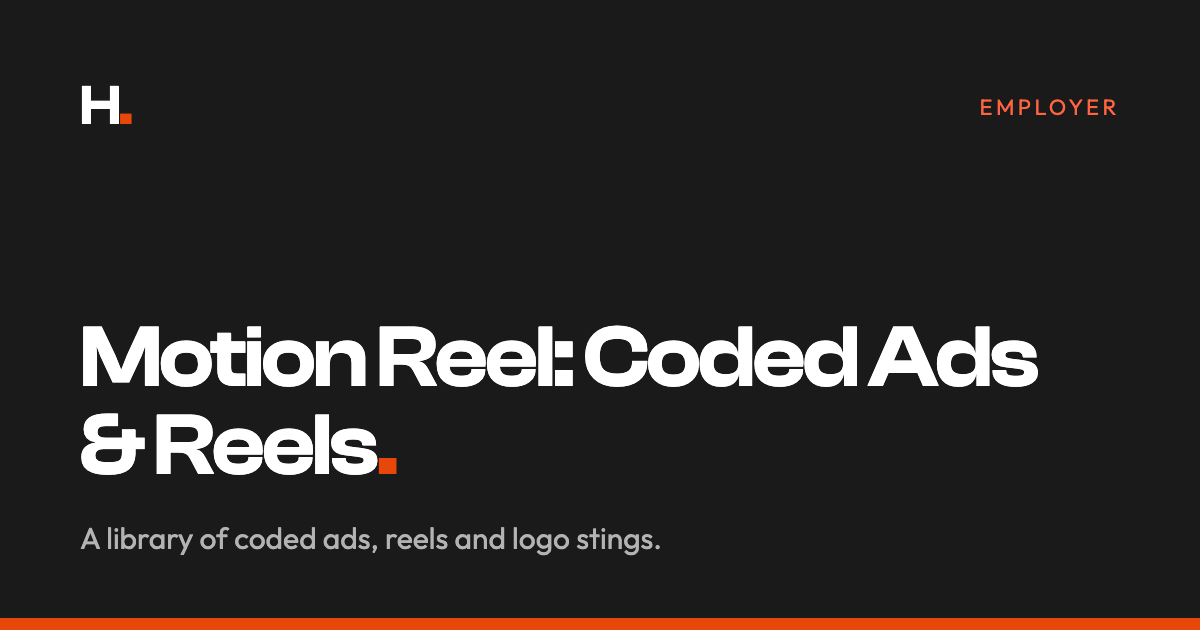
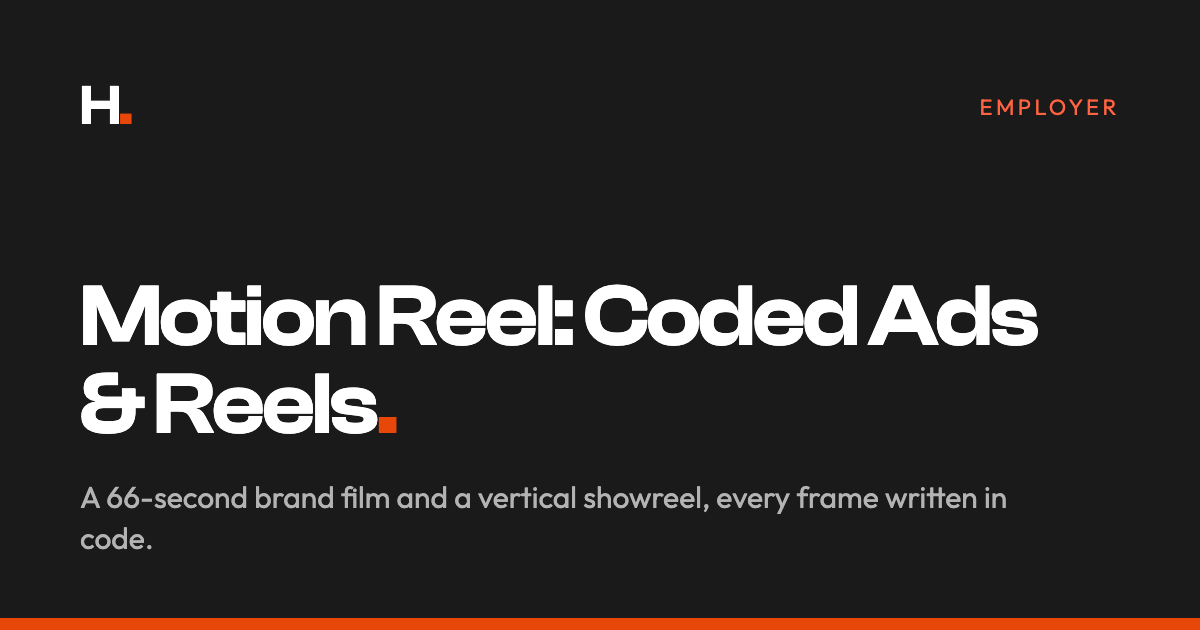
Restore Zara redesign and Mini Minds as personal projects
Both case studies from the original site return under a new Personal
projects section on the Work page, with self-hosted images, cleaned copy
(vague stats dropped), the Zara Figma prototype link, OG images and a
Personal projects gallery group. Their original URLs serve the pages
again instead of redirecting to /work.

Changed region(s): [[0.0617, 0.4524, 0.8633, 0.8143], [0.0617, 0.8444, 0.555, 0.8746]]

diff --git a/src/data/projects.ts b/src/data/projects.ts
@@ -7,7 +7,7 @@
  * skipped on case study pages. Covers without real media use generated art (scripts/make-covers.mjs).
  */
 
-export type ProjectType = 'product' | 'employer' | 'freelance' | 'coursework'
+export type ProjectType = 'product' | 'employer' | 'freelance' | 'coursework' | 'personal'
 export type ProjectStatus = 'shipped' | 'in-progress'
 export type Discipline = 'product' | 'web' | 'motion' | 'marketing'
 
@@ -68,6 +68,8 @@ export interface Project {
   sections: Section[]
   confidential: boolean
   liveUrl?: string
+  /** Figma or other prototype link, shown as a secondary button on the case study. */
+  prototypeUrl?: string
   /** Studies label shown on coursework cards. */
   studyLabel?: 'KPU coursework' | 'KPU capstone'
 }
@@ -77,6 +79,7 @@ export const typeLabel: Record<ProjectType, string> = {
   employer: 'Employer',
   freelance: 'Freelance',
   coursework: 'Coursework',
+  personal: 'Personal project',
 }
 
 export const disciplineLabel: Record<Discipline, string> = {
@@ -644,6 +647,131 @@ export const projects: Project[] = [
     ],
   },
 
+  /* Personal projects --------------------------------------------------- */
+  {
+    slug: 'zara-redesign',
+    title: 'Zara Website Redesign',
+    summary: 'A redesign of the Zara web experience focused on accessibility, intuitive navigation and a refined visual hierarchy.',
+    outcome: 'Responsive redesign with a Figma prototype for desktop, tablet and mobile.',
+    type: 'personal',
+    status: 'shipped',
+    role: 'UI/UX Designer',
+    timeline: '2025',
+    client: 'Personal project (unsolicited redesign)',
+    tools: ['Figma', 'Adobe Illustrator', 'Adobe Photoshop', 'AI tools'],
+    tags: ['Web redesign', 'Accessibility', 'Figma'],
+    disciplines: ['product', 'web'],
+    featured: false,
+    order: 201,
+    cover: { src: '/media/zara/cover', alt: 'Mid-fidelity wireframes of the redesigned Zara homepage, category, search and product pages on laptop and tablet' },
+    ogImage: og('zara-redesign'),
+    confidential: false,
+    prototypeUrl: 'https://www.figma.com/proto/v92INsi3vQ46o8rxwS5drA/Zara-website-redesign?content-scaling=fixed&kind=proto&node-id=20-4&scaling=scale-down&starting-point-node-id=20%3A4',
+    sections: [
+      {
+        id: 'problem',
+        title: 'The problem',
+        body: [
+          'Users struggled with Zara’s complex navigation and an inconsistent experience across devices. The site also had accessibility hurdles, such as poor keyboard support and low contrast.',
+        ],
+      },
+      {
+        id: 'role',
+        title: 'My role and constraints',
+        body: ['I led the end-to-end redesign, applying UX laws like Hick’s and Fitts’s to simplify the interface while keeping the brand’s premium feel.'],
+      },
+      {
+        id: 'process',
+        title: 'Process',
+        body: [
+          'Analysis of the existing site revealed the friction points: overwhelming choices and a lack of clear visual organization. Accessibility audits found contrast and navigation gaps.',
+          'From Miller’s Law for chunking information to Gestalt principles for visual hierarchy, each design decision aimed to reduce cognitive load and improve the shopping journey.',
+        ],
+        media: [
+          { src: '/media/zara/discovery', alt: 'Key findings: usability issues and accessibility challenges on the existing Zara site', caption: 'Key findings from the usability and accessibility review.' },
+          { src: '/media/zara/process', alt: 'Mid-fidelity mobile wireframes for the homepage, category, search and product pages', caption: 'Mid-fidelity mobile wireframes.' },
+        ],
+      },
+      {
+        id: 'solution',
+        title: 'The solution',
+        body: ['A minimalist, functional redesign that prioritizes accessibility and responsiveness, with easier product discovery and a smoother checkout flow.'],
+        media: [{ src: '/media/zara/solution', alt: 'Mobile wireframes with product imagery for the redesigned shopping flow', caption: 'The redesigned mobile shopping flow.' }],
+      },
+      {
+        id: 'learned',
+        title: 'What I learned',
+        body: [
+          'Balancing a high-fashion, minimalist brand with the functional needs of a high-volume store comes down to visual hierarchy and small interactions; they are what make the experience feel premium.',
+        ],
+      },
+    ],
+  },
+  {
+    slug: 'mini-minds',
+    title: 'Mini Minds',
+    summary: 'An interactive learning app for children aged 5 to 10, built around gamified learning and creative skill development.',
+    outcome: '9+ high-fidelity screens for a gamified learning app for ages 5 to 10.',
+    type: 'personal',
+    status: 'shipped',
+    role: 'UI/UX Designer',
+    timeline: '2024',
+    client: 'Personal project',
+    tools: ['Figma', 'Adobe Illustrator', 'Canva'],
+    tags: ['Mobile app', 'EdTech', 'Gamification'],
+    disciplines: ['product'],
+    featured: false,
+    order: 202,
+    cover: { src: '/media/mini-minds/cover', alt: 'Mini Minds app logo on two phones' },
+    ogImage: og('mini-minds'),
+    confidential: false,
+    sections: [
+      {
+        id: 'problem',
+        title: 'The problem',
+        body: [
+          'Traditional learning platforms are often rigid and fail to engage young learners. Children need something that matches their energy levels and different learning styles.',
+        ],
+      },
+      {
+        id: 'role',
+        title: 'My role and constraints',
+        body: ['I designed the end-to-end mobile experience, focusing on gamification and child-friendly UI patterns so learning feels intuitive and fun.'],
+      },
+      {
+        id: 'process',
+        title: 'Process',
+        body: [
+          'Research showed that children respond best to play-based discovery. I reviewed existing EdTech apps for gaps in creative engagement and in the balance of sound and visuals.',
+          'From empathy mapping to heuristic evaluation, I iterated on navigation and the reward system so the app feels like a game rather than a chore.',
+        ],
+        media: [
+          { src: '/media/mini-minds/discovery', alt: 'Empathy map from the parent’s point of view: thinks, feels, says and does', caption: 'Empathy mapping from the parent’s point of view.' },
+          { src: '/media/mini-minds/process', alt: 'Heuristic evaluation notes for the splash, onboarding, how it works, registration and verification screens', caption: 'Heuristic evaluation of the core screens.' },
+        ],
+      },
+      {
+        id: 'solution',
+        title: 'The solution',
+        body: ['A mobile app that uses gamification to nurture creativity and critical thinking, with a vibrant visual identity made for the 5 to 10 age group.'],
+        media: [{ src: '/media/mini-minds/solution', alt: 'Nine high-fidelity Mini Minds screens from splash to quiz', caption: 'High-fidelity screens.' }],
+      },
+      {
+        id: 'outcome',
+        title: 'Outcome',
+        stats: [
+          { value: '5 to 10', label: 'Age group designed for' },
+          { value: '9+', label: 'High-fidelity screens' },
+        ],
+      },
+      {
+        id: 'learned',
+        title: 'What I learned',
+        body: ['Designing for children means different constraints: larger touch targets, vibrant feedback and extremely simple navigation.'],
+      },
+    ],
+  },
+
   /* Studies ------------------------------------------------------------- */
   {
     slug: 'musify-motion-system',
@@ -831,17 +959,18 @@ export const projects: Project[] = [
   },
 ]
 
-export const workProjects = projects.filter((p) => p.type !== 'coursework').sort((a, b) => a.order - b.order)
+export const workProjects = projects.filter((p) => p.type !== 'coursework' && p.type !== 'personal').sort((a, b) => a.order - b.order)
 export const studies = projects.filter((p) => p.type === 'coursework').sort((a, b) => a.order - b.order)
+export const personalProjects = projects.filter((p) => p.type === 'personal').sort((a, b) => a.order - b.order)
 export const featuredProjects = workProjects.filter((p) => p.featured)
 
 export function getProject(slug: string | undefined) {
   return projects.find((p) => p.slug === slug)
 }
 
-/** Next project in reading order (work, then studies), wrapping around. */
+/** Next project in reading order (work, studies, then personal projects), wrapping around. */
 export function getNextProject(slug: string) {
-  const ordered = [...workProjects, ...studies]
+  const ordered = [...workProjects, ...studies, ...personalProjects]
   const i = ordered.findIndex((p) => p.slug === slug)
   return ordered[(i + 1) % ordered.length]
 }

diff --git a/src/pages/Work.tsx b/src/pages/Work.tsx
@@ -4,7 +4,7 @@ import { Seo } from '../components/Seo'
 import { SiteGrid } from '../components/sites/SiteGrid'
 import { ProjectCard } from '../components/ui/ProjectCard'
 import { SectionLabel } from '../components/ui/SectionLabel'
-import { disciplineLabel, studies, workProjects, type Discipline } from '../data/projects'
+import { disciplineLabel, personalProjects, studies, workProjects, type Discipline } from '../data/projects'
 import { sites } from '../data/sites'
 import { useScrollMotion } from '../lib/use-scroll-motion'
 import { cn } from '../lib/utils'
@@ -28,6 +28,7 @@ export function Work() {
   const matches = (d: Discipline[]) => filter === 'all' || d.includes(filter)
   const shownWork = workProjects.filter((p) => matches(p.disciplines))
   const shownStudies = studies.filter((p) => matches(p.disciplines))
+  const shownPersonal = personalProjects.filter((p) => matches(p.disciplines))
   const showSites = filter === 'all' || filter === 'web'
 
   const setFilter = (f: Filter) => {
@@ -65,7 +66,7 @@ export function Work() {
             ))}
           </div>
           <p className="sr-only" aria-live="polite">
-            Showing {shownWork.length + shownStudies.length + (showSites ? sites.length : 0)} items
+            Showing {shownWork.length + shownStudies.length + shownPersonal.length + (showSites ? sites.length : 0)} items
           </p>
         </div>
       </section>
@@ -116,6 +117,26 @@ export function Work() {
             </div>
             <ul className="grid gap-x-6 gap-y-12 sm:grid-cols-2 lg:grid-cols-3" data-reveal-stagger="">
               {shownStudies.map((p) => (
+                <li key={p.slug}>
+                  <ProjectCard project={p} size="compact" />
+                </li>
+              ))}
+            </ul>
+          </div>
+        </section>
+      )}
+      {shownPersonal.length > 0 && (
+        <section aria-labelledby="personal-title" className="section border-t border-border">
+          <div className="container-page space-y-12">
+            <div className="space-y-4">
+              <SectionLabel>Personal projects</SectionLabel>
+              <h2 id="personal-title" className="h2" data-reveal="mask">
+                Self-initiated work.
+              </h2>
+              <p className="max-w-measure text-muted">Redesigns and concepts I took on outside of client and coursework briefs.</p>
+            </div>
+            <ul className="grid gap-x-6 gap-y-12 sm:grid-cols-2 lg:grid-cols-3" data-reveal-stagger="">
+              {shownPersonal.map((p) => (
                 <li key={p.slug}>
                   <ProjectCard project={p} size="compact" />
                 </li>

diff --git a/src/data/gallery.ts b/src/data/gallery.ts
@@ -5,7 +5,7 @@
  */
 
 export type GalleryKind = 'video' | 'image'
-export type GalleryGroup = 'Motion design' | 'AI video' | 'Brand identity' | 'Social & ads' | 'AI product imagery' | 'Coursework'
+export type GalleryGroup = 'Motion design' | 'AI video' | 'Brand identity' | 'Social & ads' | 'AI product imagery' | 'Coursework' | 'Personal projects'
 
 export interface GalleryItem {
   key: string
@@ -88,6 +88,16 @@ export const gallery: GalleryItem[] = [
     ['acminder-flow', 'Acminder, task flow'],
   ].map(([file, title]): GalleryItem => ({ key: `/assets/case-studies/${file}`, kind: 'image', title, group: 'Coursework' })),
   { key: '/assets/hero-banner', kind: 'image', title: 'Personal brand banner', group: 'Brand identity' },
+
+  // Personal projects
+  { key: '/media/zara/cover', kind: 'image', title: 'Zara redesign, laptop and tablet wireframes', group: 'Personal projects' },
+  { key: '/media/zara/discovery', kind: 'image', title: 'Zara redesign, key findings', group: 'Personal projects' },
+  { key: '/media/zara/process', kind: 'image', title: 'Zara redesign, mobile wireframes', group: 'Personal projects' },
+  { key: '/media/zara/solution', kind: 'image', title: 'Zara redesign, mobile shopping flow', group: 'Personal projects' },
+  { key: '/media/mini-minds/cover', kind: 'image', title: 'Mini Minds, app logo', group: 'Personal projects' },
+  { key: '/media/mini-minds/discovery', kind: 'image', title: 'Mini Minds, parent empathy map', group: 'Personal projects' },
+  { key: '/media/mini-minds/process', kind: 'image', title: 'Mini Minds, heuristic evaluation', group: 'Personal projects' },
+  { key: '/media/mini-minds/solution', kind: 'image', title: 'Mini Minds, high-fidelity screens', group: 'Personal projects' },
 ]
 
-export const galleryGroups: GalleryGroup[] = ['Motion design', 'AI video', 'Brand identity', 'Social & ads', 'AI product imagery', 'Coursework']
+export const galleryGroups: GalleryGroup[] = ['Motion design', 'AI video', 'Brand identity', 'Social & ads', 'AI product imagery', 'Coursework', 'Personal projects']

diff --git a/src/pages/CaseStudy.tsx b/src/pages/CaseStudy.tsx
@@ -99,6 +99,19 @@ function CaseHero({ project }: { project: Project }) {
           ))}
         </dl>
 
+        {project.prototypeUrl && (
+          <a
+            href={project.prototypeUrl}
+            target="_blank"
+            rel="noreferrer"
+            className="inline-flex min-h-[48px] items-center gap-2 border border-text px-6 py-3 font-medium transition-colors duration-base hover:bg-dark hover:text-white"
+          >
+            Open the Figma prototype
+            <ExternalLink size={16} aria-hidden="true" />
+            <span className="sr-only">(opens in a new tab)</span>
+          </a>
+        )}
+
         {project.liveUrl && (
           <a
             href={project.liveUrl}

diff --git a/src/lib/seo.ts b/src/lib/seo.ts
@@ -26,7 +26,7 @@ export function projectJsonLd(p: Project) {
     url: `${site.url}/work/${p.slug}`,
     image: `${site.url}${p.ogImage}`,
     creator: { '@type': 'Person', name: site.name, url: site.url },
-    genre: p.type === 'coursework' ? 'Coursework' : 'Professional work',
+    genre: p.type === 'coursework' ? 'Coursework' : p.type === 'personal' ? 'Personal project' : 'Professional work',
     keywords: p.tags.join(', '),
     creativeWorkStatus: p.status === 'in-progress' ? 'In progress' : 'Published',
   }
